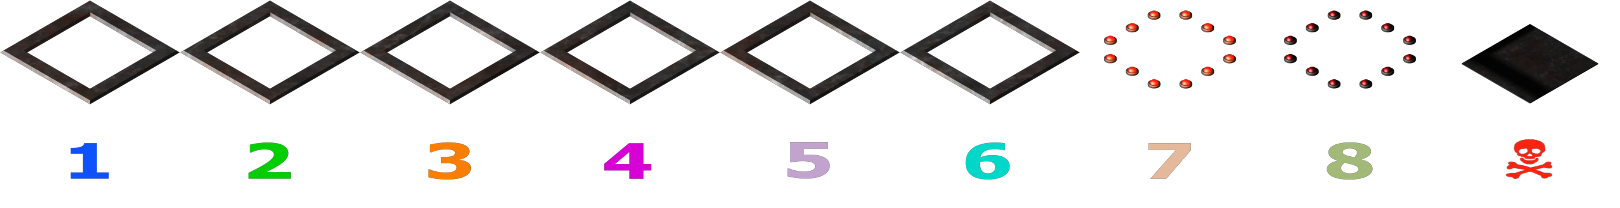
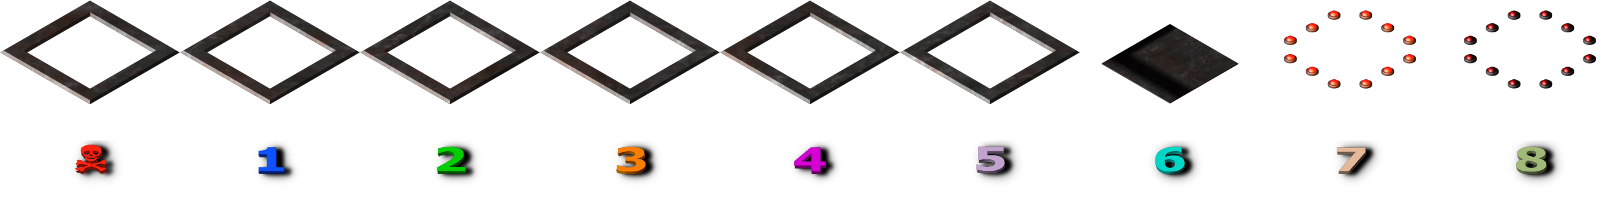
base IsoMines animation

diff --git a/games/isomines/js/view.js b/games/isomines/js/view.js
@@ -1,64 +1,111 @@
 /** @class IsoMines.View */
 atom.declare( 'IsoMines.View', {
 	initialize: function (controller, size) {
-		var appSize = new Size(1200, 600);
+		this.appSize = new Size(800, 500);
 
 		this.controller = controller;
 
-		var p = this.projection = new IsometricEngine.Projection({
+		this.projection = new IsometricEngine.Projection({
 		    factor: new Point3D(90, 52, 54)
 		});
 
-		var layerSize = new Size(
-			p.toIsometric(new Point3D(size.x, size.y, 0)).x,
-			p.toIsometric(new Point3D(0, size.y, -1)).y * 2
+		this.layerSize = new Size(
+			this.projection.toIsometric(new Point3D(size.x, size.y, 0)).x,
+			this.projection.toIsometric(new Point3D(0, size.y, -1)).y * 2
 		);
 
-		this.app = new App({ size: appSize });
+		this.app = new App({ size: this.appSize });
 
 		this.layer = this.app.createLayer({
 			name: 'tiles',
 			intersection: 'manual',
-			size: layerSize
+			size: this.layerSize
 		});
 
-		this.projection.start = new Point(0, layerSize.height/2-20);
+		this.projection.start = new Point(0, this.layerSize.height/2-20);
 
+		this.mouse = new LibCanvas.Mouse(this.app.container.bounds);
 
-		var mouse = new LibCanvas.Mouse(this.app.container.bounds);
+		this.mouse.events.add('contextmenu', Mouse.prevent);
+
+		this.mouseHandler = new App.MouseHandler({
+			mouse: this.mouse, app: this.app
+		});
+
+		this.app.resources.set({
+			mouseHandler: this.mouseHandler,
+			mouse : this.mouse,
+			images: controller.images
+		});
+
+		this.initDragger();
+
+		this.initAnimations();
+
+		this.createCellsElements(size);
+
+		this.shift.addShift( this.shift.limitShift.center, true );
+	},
+
+	initAnimations: function () {
+		var frames = new Animation.Frames(
+			this.controller.images.get('gates-animation'), 180, 104
+		);
+
+		this.animationSheets = atom.object.map({
+			opening  : atom.array.range( 12, 23),
+			locking  : atom.array.range(  0, 11),
+			unlocking: atom.array.range( 11,  0)
+		}, function (sequence) {
+			return new Animation.Sheet({
+			    frames: frames,
+			    delay : 40,
+			    sequence: sequence
+			});
+		});
+	},
+
+	initDragger: function () {
 		var padding = new Point(64, 64);
 
-		var shift = new App.LayerShift(this.layer);
-		var shiftLimit = new Rectangle(
-			new Point(appSize)
-				.move(layerSize, true)
+		this.shift = new App.LayerShift(this.layer);
+
+		this.shift.setLimitShift(new Rectangle(
+			new Point(this.appSize)
+				.move(this.layerSize, true)
 				.move(padding, true),
 			padding
-		);
-		shift.setLimitShift(shiftLimit);
+		));
 
-		new App.Dragger( mouse )
-			.addLayerShift( shift )
-			.start();
+		new App.Dragger( this.mouse )
+			.addLayerShift( this.shift )
+			.start(function (e) {
+				return e.button == 1;
+			});
+	},
 
-		var mouseHandler = new App.MouseHandler({
-			mouse: mouse, app: this.app
-		});
+	createCellsElements: function (size) {
+		var x, y, point, cell;
 
-		this.app.resources.set({ images: controller.images });
+		this.cells = [];
 
-		for (var x = size.width; x--;) for (var y = size.height; y--;) {
-			var point = new Point(x, y);
+		this.cellsIndex = atom.array.fillMatrix(size.width, size.height, 0);
 
-			var cell = new IsoMines.Cell(this.layer, {
-				point: point,
-				shape: this.createPoly(point)
+		for (x = size.width; x--;) for (y = size.height; y--;) {
+			point = new Point(x, y);
+
+			cell = new IsoMines.Cell(this.layer, {
+				point : point,
+				sheets: this.animationSheets,
+				shape : this.createPoly(point)
 			});
 
-			mouseHandler.subscribe(cell);
-		}
+			this.mouseHandler.subscribe(cell);
 
-		shift.addShift( shiftLimit.center, true );
+			this.cells.push(cell);
+
+			this.cellsIndex[point.y][point.x] = cell;
+		}
 	},
 
 	createPoly: function (point) {

diff --git a/games/isomines/js/cell.js b/games/isomines/js/cell.js
@@ -1,20 +1,73 @@
 /** @class IsoMines.Cell */
 atom.declare( 'IsoMines.Cell', App.Element, {
 
+	actions: [ 'open', 'all', 'lock' ],
+
+	preStates: {
+		opened: 'opening',
+		closed: 'unlocking',
+		locked: 'locking'
+	},
+
 	imageSize: new Size(180, 104),
 
 	value: 0,
 
 	configure: function () {
-
-		this.value = Number.random(0, 8);
-
+		this.value = Math.random() > 0.5 ? Number.random(0,8) : 0;
 		this.imageIndex = Number.random(0, 5);
+		this.animation  = null;
 
-		this.animatable = new atom.Animatable(this);
+		this.events.add('mousedown', function (e) {
+			this.activate(e.button);
+		});
+	},
 
-		this.clickable = new App.Clickable(this, this.redraw).start();
+	activate: function (button) {
+		if (button == 0) this.open();
+		if (button == 2) this.lock();
+	},
 
+	open: function () {
+		if (this.state == 'closed') {
+			this.goTo('opened', function () {
+
+			});
+		} else if (this.state == 'opened') {
+			this.all();
+		}
+	},
+
+	lock: function () {
+		if (this.state == 'closed' || this.state == 'locked') {
+			this.goTo(this.state == 'closed' ? 'locked' : 'closed', function () {
+
+			});
+		}
+	},
+
+	all: function () {
+
+	},
+
+	state: 'closed',
+
+	goTo: function (state, callback) {
+		var preState = this.preStates[state];
+		if (preState) {
+			this.state = preState;
+
+			this.animation = new Animation({
+			    sheet   : this.settings.get('sheets')[preState],
+			    onUpdate: this.redraw,
+			    onStop  : function () {
+				    this.state = state;
+				    this.animation = null;
+				    this.redraw();
+				    callback.call(this);
+			    }.bind(this)
+			})
+		}
 	},
 
 	getImage: function (x, y, str) {
@@ -28,25 +81,30 @@ atom.declare( 'IsoMines.Cell', App.Element, {
 	},
 
 	drawImage: function (ctx, image) {
+		if (typeof image == 'string') {
+			image = this.layer.app.resources.get('images').get(image);
+		}
+
 		ctx.drawImage({ image : image, center: this.shape.center });
 	},
 
 	clearPrevious: function () {},
 
-	renderTo: function (ctx, resources) {
-		this.drawImage(ctx, this.getImage(8, 0));
-		this.drawImage(ctx, this.getImage(11, 1, 'gates'));
-		this.drawImage(ctx, this.getImage(this.imageIndex, 0));
-
-		if (this.hover) {
-			this.drawImage(ctx, this.getImage(6, 0));
-		} else {
-			this.drawImage(ctx, this.getImage(7, 0));
+	drawGates: function (ctx) {
+		if (' closed opened locked'.indexOf(this.state) > 0) {
+			this.drawImage(ctx, 'gates-' + this.state);
+		} else if (this.animation && this.animation.get()) {
+			this.drawImage(ctx, this.animation.get());
 		}
+	},
 
-		if (this.value) {
-			this.drawImage(ctx, this.getImage(this.value-1, 1));
+	renderTo: function (ctx) {
+		this.drawImage(ctx, 'static-background');
+		if (this.value && this.state.begins('open')) {
+			this.drawImage(ctx, 'static-number-' + this.value);
 		}
+		this.drawGates(ctx);
+		this.drawImage(ctx, 'static-carcass-' + this.imageIndex);
 
 	}
 

diff --git a/games/isomines/js/controller.js b/games/isomines/js/controller.js
@@ -2,15 +2,39 @@
 atom.declare( 'IsoMines.Controller', {
 	initialize: function () {
 		atom.ImagePreloader.run({
-			'connect': 'im/connect.png',
-			'gates'  : 'im/gates.png',
-			'static' : 'im/static.png',
-			'walls'  : 'im/walls.png'
+			'gates-animation'   : 'im/gates.png',
+
+			'gates-opened': 'im/gates.png [180:104]{11:1}',
+			'gates-closed': 'im/gates.png [180:104]{0:1}',
+			'gates-locked': 'im/gates.png [180:104]{11:0}',
+
+			'static-carcass-0'  : 'im/static.png [180:104]{0:0}',
+			'static-carcass-1'  : 'im/static.png [180:104]{1:0}',
+			'static-carcass-2'  : 'im/static.png [180:104]{2:0}',
+			'static-carcass-3'  : 'im/static.png [180:104]{3:0}',
+			'static-carcass-4'  : 'im/static.png [180:104]{4:0}',
+			'static-carcass-5'  : 'im/static.png [180:104]{5:0}',
+			'static-background' : 'im/static.png [180:104]{6:0}',
+
+			'static-mine'       : 'im/static.png [180:104]{0:1}',
+			'static-number-1'   : 'im/static.png [180:104]{1:1}',
+			'static-number-2'   : 'im/static.png [180:104]{2:1}',
+			'static-number-3'   : 'im/static.png [180:104]{3:1}',
+			'static-number-4'   : 'im/static.png [180:104]{4:1}',
+			'static-number-5'   : 'im/static.png [180:104]{5:1}',
+			'static-number-6'   : 'im/static.png [180:104]{6:1}',
+			'static-number-7'   : 'im/static.png [180:104]{7:1}',
+			'static-number-8'   : 'im/static.png [180:104]{8:1}',
+
+			'walls-right-empty' : 'im/walls.png [90:105]{2:0}',
+			'walls-right-arrows': 'im/walls.png [90:105]{3:0}',
+			'walls-left-empty'  : 'im/walls.png [90:105]{2:1}',
+			'walls-left-arrows' : 'im/walls.png [90:105]{3:1}'
 		}, this.start.bind(this) );
 	},
 
 	start: function (images) {
-		this.size  = new Size(10, 10);
+		this.size  = new Size(8, 8);
 		this.mines = 10;
 
 		this.images = images;

diff --git a/files/js/atom.js b/files/js/atom.js
@@ -2831,6 +2831,7 @@ declare( 'atom.Animatable.Animation', {
 		this.initial  = this.fetchInitialValues();
 		this.delta    = this.countValuesDelta();
 		this.timeLeft = this.allTime;
+		this.events.fire( 'start', [ this ]);
 		atom.frame.add(this.tick);
 		return this;
 	},

diff --git a/games/isomines/index.html b/games/isomines/index.html
@@ -25,6 +25,5 @@ new function () {
         <script src="js/cell.js"></script>
         <script src="js/view.js"></script>
         <script src="js/generator.js"></script>
-        <script src="js/action.js"></script>
     </body>
 </html>
